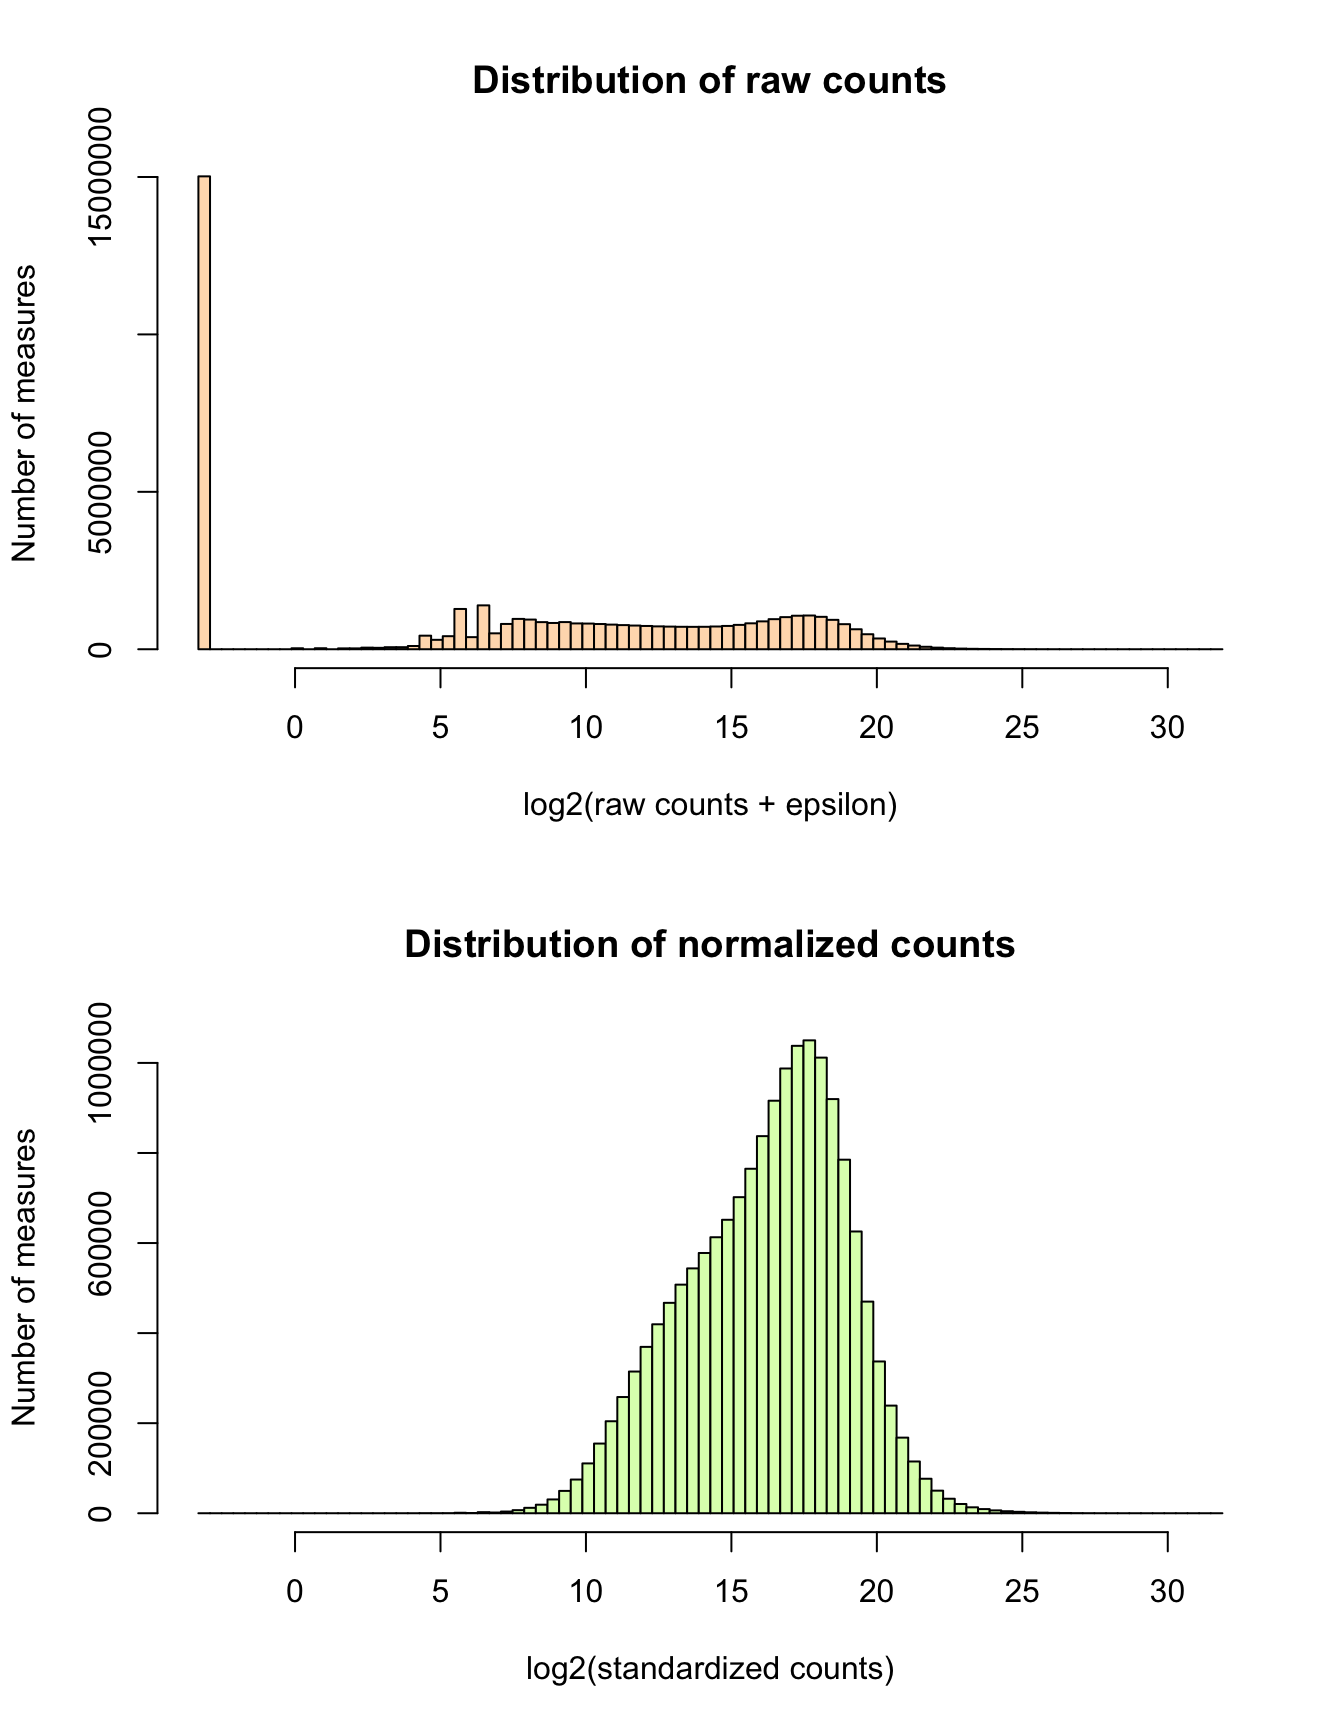
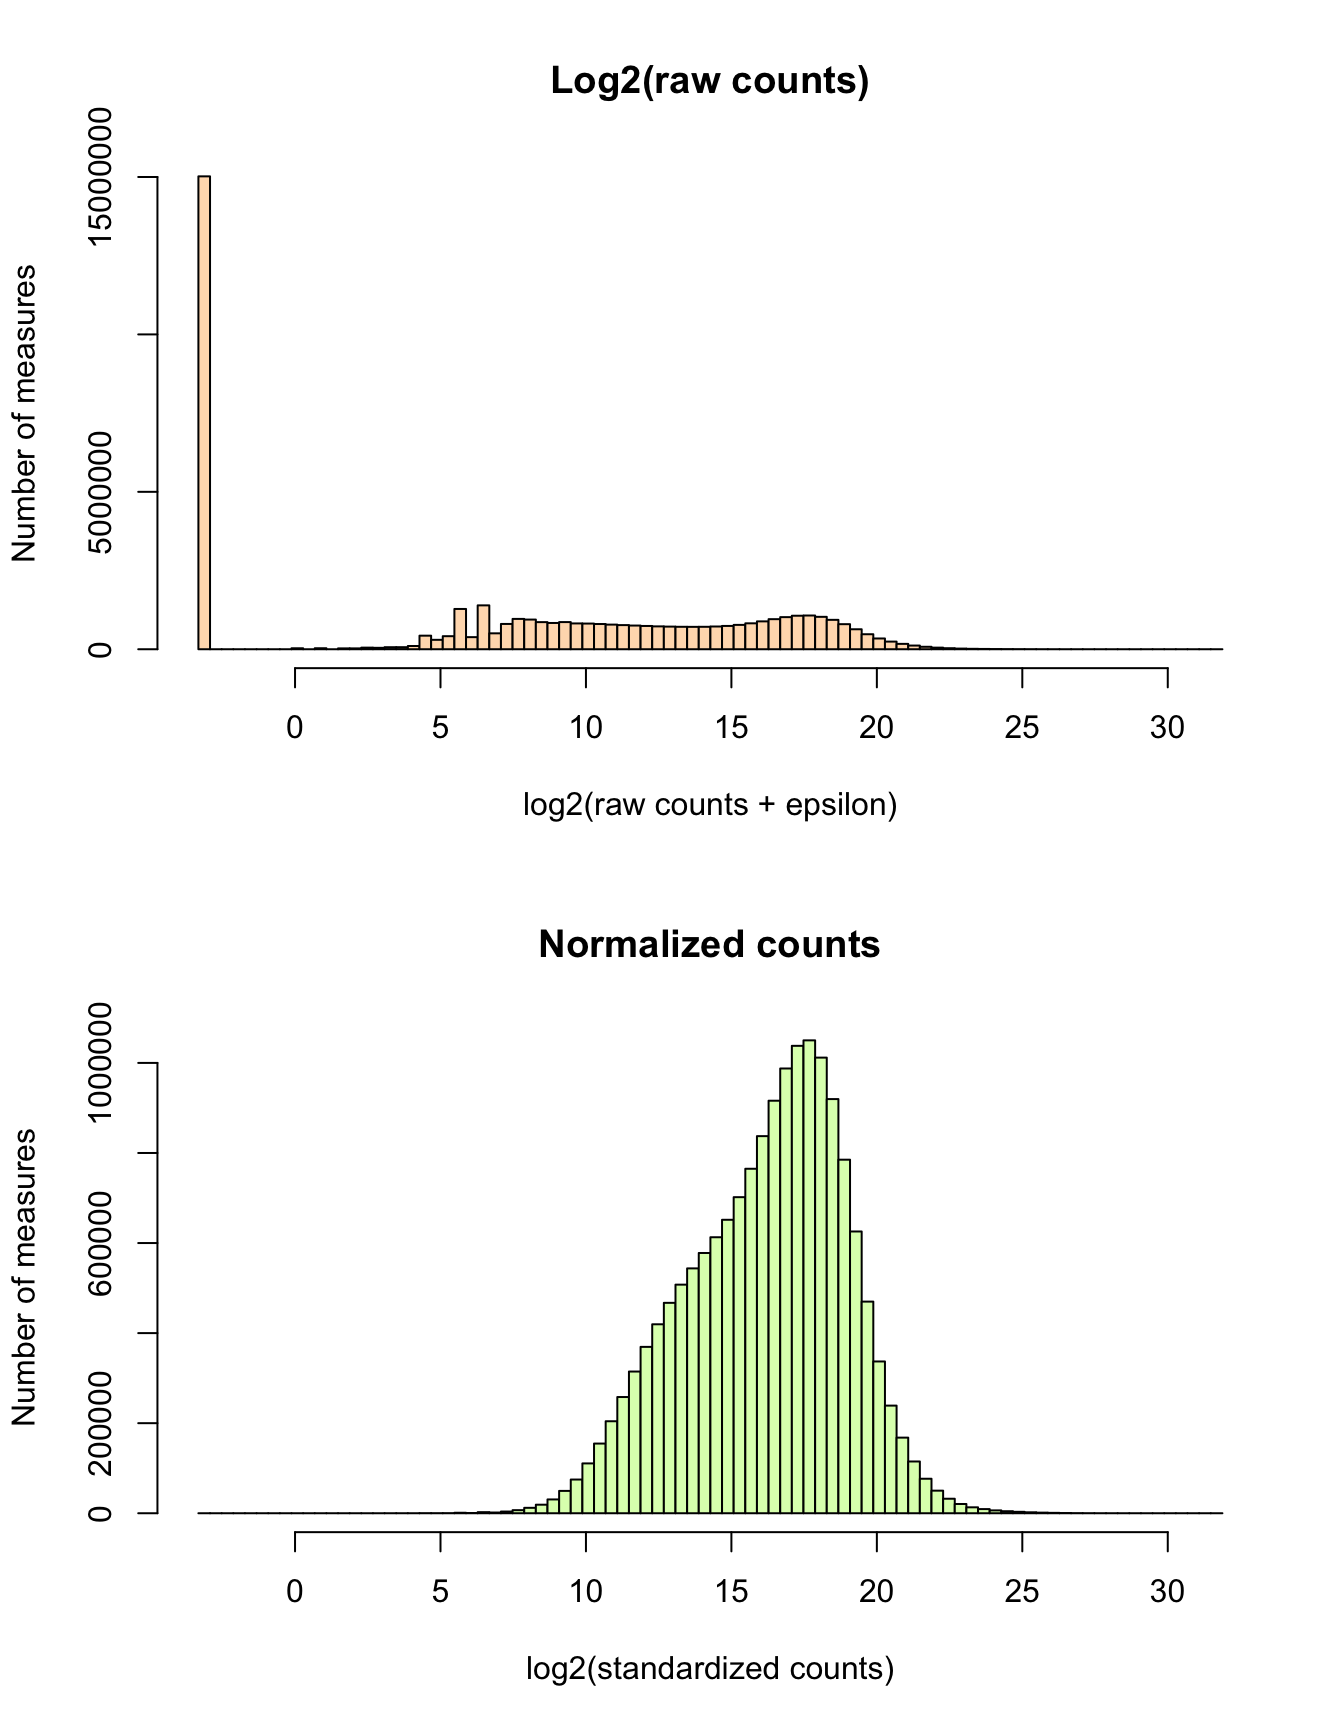
added edgeR analysis

Changed region(s): [[0.2812, 0.5312, 0.75, 0.5625], [0.3438, 0.0312, 0.7188, 0.0625]]

diff --git a/Homo_sapiens/TCGA_study-case/import_TCGA_from_Recount.html b/Homo_sapiens/TCGA_study-case/import_TCGA_from_Recount.html
@@ -371,7 +371,9 @@ parameters &lt;-<span class="st"> </span><span class="kw">list</span>(
   <span class="dt">epsilon =</span> <span class="fl">0.1</span>,
   <span class="dt">gene.filter.min.count =</span> <span class="dv">10</span>,
   <span class="dt">gene.filter.percent.zeros =</span> <span class="dv">95</span>,
-  <span class="dt">gzip.output.files =</span> <span class="ot">TRUE</span>
+  <span class="dt">gzip.output.files =</span> <span class="ot">TRUE</span>,
+  <span class="dt">alpha =</span> <span class="fl">0.01</span>,
+  <span class="dt">p.adjust.method =</span> <span class="st">&quot;fdr&quot;</span>
 )
 
 <span class="kw">kable</span>(<span class="kw">t</span>(<span class="kw">data.frame</span>(parameters)), <span class="dt">col.names =</span> <span class="st">&quot;Parameter value&quot;</span>)</code></pre></div>
@@ -380,7 +382,7 @@ parameters &lt;-<span class="st"> </span><span class="kw">list</span>(
 <tr>
 <th style="text-align:left;">
 </th>
-<th style="text-align:right;">
+<th style="text-align:left;">
 Parameter value
 </th>
 </tr>
@@ -390,7 +392,7 @@ Parameter value
 <td style="text-align:left;">
 epsilon
 </td>
-<td style="text-align:right;">
+<td style="text-align:left;">
 0.1
 </td>
 </tr>
@@ -398,24 +400,40 @@ epsilon
 <td style="text-align:left;">
 gene.filter.min.count
 </td>
-<td style="text-align:right;">
-10.0
+<td style="text-align:left;">
+10
 </td>
 </tr>
 <tr>
 <td style="text-align:left;">
 gene.filter.percent.zeros
 </td>
-<td style="text-align:right;">
-95.0
+<td style="text-align:left;">
+95
 </td>
 </tr>
 <tr>
 <td style="text-align:left;">
 gzip.output.files
 </td>
-<td style="text-align:right;">
-1.0
+<td style="text-align:left;">
+TRUE
+</td>
+</tr>
+<tr>
+<td style="text-align:left;">
+alpha
+</td>
+<td style="text-align:left;">
+0.01
+</td>
+</tr>
+<tr>
+<td style="text-align:left;">
+p.adjust.method
+</td>
+<td style="text-align:left;">
+fdr
 </td>
 </tr>
 </tbody>
@@ -1115,6 +1133,50 @@ dds0 &lt;-<span class="st"> </span><span class="kw">DESeqDataSetFromMatrix</span
 <span class="co"># </span>
 <span class="co"># # Cast the results from DESeq differential expression analysis</span>
 <span class="co"># DEGtable &lt;- results(dds0, independentFiltering = FALSE)</span></code></pre></div>
+<div class="sourceCode"><pre class="sourceCode r"><code class="sourceCode r">## Detection of Differentially Expressed Genes (DEG) with edgeR
+<span class="kw">message</span>(<span class="st">&quot;Detecting Differentially Expressed Genes (DEG) with edgeR&quot;</span>)
+
+## Build a &quot;model matrix&quot; from the class labels
+## This matrix contains one row per sample and one column per class
+designMat &lt;-<span class="st"> </span><span class="kw">model.matrix</span>(<span class="op">~</span><span class="st"> </span>pheno<span class="op">$</span>cancer.type)
+<span class="co"># View(designMat)</span>
+
+## Build an edgeR::DGEList object which is required to run edgeR DE analysis
+dgList &lt;-<span class="st"> </span><span class="kw">DGEList</span>(<span class="dt">counts =</span> filtered.counts)
+<span class="co"># class(dgList)</span>
+<span class="co"># is(dgList)</span>
+
+## Estimate the dispersion parameters. 
+<span class="kw">message</span>(<span class="st">&quot;</span><span class="ch">\t</span><span class="st">edgeR</span><span class="ch">\t</span><span class="st">Estimating dispersion&quot;</span>)
+dgList &lt;-<span class="st"> </span><span class="kw">estimateDisp</span>(dgList, <span class="dt">design =</span> designMat)
+
+## Fit edgeR model for differential expression analysis.
+## We chose glmQLFit because it is claimed to offer a more accurate control of type I error. 
+<span class="kw">message</span>(<span class="st">&quot;</span><span class="ch">\t</span><span class="st">edgeR</span><span class="ch">\t</span><span class="st">model fitting with glmQLFit()&quot;</span>)
+fit &lt;-<span class="st"> </span><span class="kw">glmQLFit</span>(dgList, <span class="dt">design =</span> designMat)
+
+## Run test to detect differentially expressed genes
+<span class="kw">message</span>(<span class="st">&quot;</span><span class="ch">\t</span><span class="st">edgeR</span><span class="ch">\t</span><span class="st">detecting differentially expressed genes with glmQLFTest()&quot;</span>)
+qlf &lt;-<span class="st"> </span><span class="kw">glmQLFTest</span>(fit, <span class="dt">coef =</span> <span class="dv">2</span><span class="op">:</span><span class="kw">ncol</span>(designMat))
+<span class="kw">message</span>(<span class="st">&quot;</span><span class="ch">\t</span><span class="st">edgeR</span><span class="ch">\t</span><span class="st">&quot;</span>)
+qlf.TT &lt;-<span class="st"> </span><span class="kw">topTags</span>(qlf, <span class="dt">n =</span> <span class="kw">nrow</span>(qlf<span class="op">$</span>table), <span class="dt">sort.by =</span> <span class="st">&quot;none&quot;</span>,
+                  <span class="dt">adjust.method =</span> parameters<span class="op">$</span>p.adjust.method)
+<span class="co"># class(qlf.TT)</span>
+<span class="co"># Note: the adusted p-values are co-linear with the nominal p-value, </span>
+## which is not supposed to be the case with BH correction. 
+## I should test this. 
+<span class="co"># plot(qlf.TT$table$PValue, qlf.TT$table$FDR, log = &quot;xy&quot;, col = &quot;grey&quot;)</span>
+
+## Select differentially expressed genes
+edgeR.DEG.table &lt;-<span class="st"> </span>qlf.TT<span class="op">$</span>table
+DEG &lt;-<span class="st"> </span>edgeR.DEG.table<span class="op">$</span>FDR <span class="op">&lt;</span><span class="st"> </span>parameters<span class="op">$</span>alpha
+<span class="co"># sum(DEG)</span>
+
+## Awful: almost all genes are declared positive
+## The p-value histogram shows indeed that almost no gene has 
+## a nominal pvalue &gt; 0.5 (typical lambda for Storey-Tibshirani 2003). 
+<span class="kw">hist</span>(edgeR.DEG.table<span class="op">$</span>PValue, <span class="dt">breaks =</span> <span class="dv">20</span>, <span class="dt">col =</span> <span class="st">&quot;grey&quot;</span>)</code></pre></div>
+<p><img src="figures/TCGA_BIC_differential_analysis_edgeR-1.png" width="672" style="display: block; margin: auto;" /></p>
 </div>
 <div id="normalization-of-the-counts-per-gene" class="section level2">
 <h2>Normalization of the counts per gene</h2>
@@ -1135,21 +1197,21 @@ counts.log2.norm &lt;-<span class="st"> </span><span class="kw">log2</span>(coun
 
 <span class="kw">par</span>(<span class="dt">mfrow =</span> <span class="kw">c</span>(<span class="dv">2</span>, <span class="dv">1</span>))
 
-<span class="kw">hist</span>(<span class="kw">unlist</span>(<span class="kw">log2</span>(<span class="kw">unlist</span>(counts.per.gene <span class="op">+</span><span class="st"> </span>parameters<span class="op">$</span>epsilon))), <span class="dt">main =</span> <span class="st">&quot;Distribution of raw counts&quot;</span>,
+<span class="kw">hist</span>(<span class="kw">unlist</span>(<span class="kw">log2</span>(<span class="kw">unlist</span>(counts.per.gene <span class="op">+</span><span class="st"> </span>parameters<span class="op">$</span>epsilon))), <span class="dt">main =</span> <span class="st">&quot;Log2(raw counts)&quot;</span>,
      <span class="dt">xlab =</span> <span class="st">&quot;log2(raw counts + epsilon)&quot;</span>,
      <span class="dt">ylab =</span> <span class="st">&quot;Number of measures&quot;</span>,
      <span class="dt">breaks =</span> log2.count.breaks, 
      <span class="dt">col =</span> <span class="st">&quot;#FFDDBB&quot;</span>)
 
-<span class="kw">hist</span>(<span class="kw">unlist</span>(counts.log2.norm), <span class="dt">main =</span> <span class="st">&quot;Distribution of normalized counts&quot;</span>,
+<span class="kw">hist</span>(<span class="kw">unlist</span>(counts.log2.norm), <span class="dt">main =</span> <span class="st">&quot;Normalized counts&quot;</span>,
      <span class="dt">xlab =</span> <span class="st">&quot;log2(standardized counts)&quot;</span>,
      <span class="dt">ylab =</span> <span class="st">&quot;Number of measures&quot;</span>,
      <span class="dt">breaks =</span> log2.count.breaks, 
      <span class="dt">col =</span> <span class="st">&quot;#DDFFBB&quot;</span>)</code></pre></div>
 <div class="figure" style="text-align: center">
-<img src="figures/TCGA_BIC_norm_count_hist-1.png" alt="**Histogram of all counts.** (a) log2(raw counts + epsilon). The epsilon is added to avoid -Inf values for log2-transformed zeros. (b) Normalised counts. Normalization consists in scaling counts in order to ensure library size standardization, followed by a  log2 transformation. " width="80%" />
+<img src="figures/TCGA_BIC_norm_count_hist-1.png" alt="**Histogram of all counts.** (a) **Before filtering and standardization.** Distribution of log2(raw counts + epsilon). The epsilon is added to avoid -Inf values for log2-transformed zeros. (b) **Normalised counts.** Normalization consists in scaling counts in order to ensure library size standardization, followed by a  log2 transformation. " width="80%" />
 <p class="caption">
-<strong>Histogram of all counts.</strong> (a) log2(raw counts + epsilon). The epsilon is added to avoid -Inf values for log2-transformed zeros. (b) Normalised counts. Normalization consists in scaling counts in order to ensure library size standardization, followed by a log2 transformation.
+<strong>Histogram of all counts.</strong> (a) <strong>Before filtering and standardization.</strong> Distribution of log2(raw counts + epsilon). The epsilon is added to avoid -Inf values for log2-transformed zeros. (b) <strong>Normalised counts.</strong> Normalization consists in scaling counts in order to ensure library size standardization, followed by a log2 transformation.
 </p>
 </div>
 <div class="sourceCode"><pre class="sourceCode r"><code class="sourceCode r"><span class="kw">par</span>(<span class="dt">mfrow =</span> <span class="kw">c</span>(<span class="dv">1</span>, <span class="dv">1</span>))</code></pre></div>
@@ -1260,6 +1322,20 @@ filtered.norm.count.path &lt;-<span class="st"> </span><span class="kw">file.pat
             <span class="dt">sep =</span> <span class="st">&quot;</span><span class="ch">\t</span><span class="st">&quot;</span>, <span class="dt">quote =</span> <span class="ot">FALSE</span>, <span class="dt">row.names =</span> <span class="ot">TRUE</span>, <span class="dt">col.names =</span> <span class="ot">NA</span>)
 <span class="cf">if</span> (parameters<span class="op">$</span>gzip.output.files) {
   <span class="kw">close</span>(filtered.norm.count.path)
+}
+
+## Export normalized counts for DEG only
+DEG.norm.count.file &lt;-<span class="st"> </span><span class="kw">paste</span>(<span class="dt">sep =</span> <span class="st">&quot;&quot;</span>, project.acronym, <span class="st">&quot;_log2-norm-counts_DEG_&quot;</span>, parameters<span class="op">$</span>p.adjust.method, <span class="st">&quot;_&quot;</span>, parameters<span class="op">$</span>alpha, <span class="st">&quot;.tsv&quot;</span>)
+DEG.norm.count.path &lt;-<span class="st"> </span><span class="kw">file.path</span>(export.dir, DEG.norm.count.file)
+<span class="cf">if</span> (parameters<span class="op">$</span>gzip.output.files) {
+  DEG.norm.count.path &lt;-<span class="st"> </span><span class="kw">gzfile</span>(DEG.norm.count.path, <span class="st">&quot;w&quot;</span>) ## Compress file
+}
+<span class="co"># dim(counts.log2.norm)</span>
+<span class="kw">write.table</span>(<span class="dt">x =</span> counts.log2.norm[DEG, ], 
+            <span class="dt">file =</span> DEG.norm.count.path,
+            <span class="dt">sep =</span> <span class="st">&quot;</span><span class="ch">\t</span><span class="st">&quot;</span>, <span class="dt">quote =</span> <span class="ot">FALSE</span>, <span class="dt">row.names =</span> <span class="ot">TRUE</span>, <span class="dt">col.names =</span> <span class="ot">NA</span>)
+<span class="cf">if</span> (parameters<span class="op">$</span>gzip.output.files) {
+  <span class="kw">close</span>(DEG.norm.count.path)
 }</code></pre></div>
 <table>
 <colgroup>
@@ -1296,6 +1372,10 @@ filtered.norm.count.path &lt;-<span class="st"> </span><span class="kw">file.pat
 <tr class="even">
 <td>Normalized counts per gene (filtered genes)</td>
 <td><a href="BIC_log2-norm-counts_filtered-genes.tsv" class="uri">BIC_log2-norm-counts_filtered-genes.tsv</a></td>
+</tr>
+<tr class="odd">
+<td>Normalized counts per gene (differentially expressed genes)</td>
+<td><a href="BIC_log2-norm-counts_DEG_fdr_0.01.tsv" class="uri">BIC_log2-norm-counts_DEG_fdr_0.01.tsv</a></td>
 </tr>
 </tbody>
 </table>
